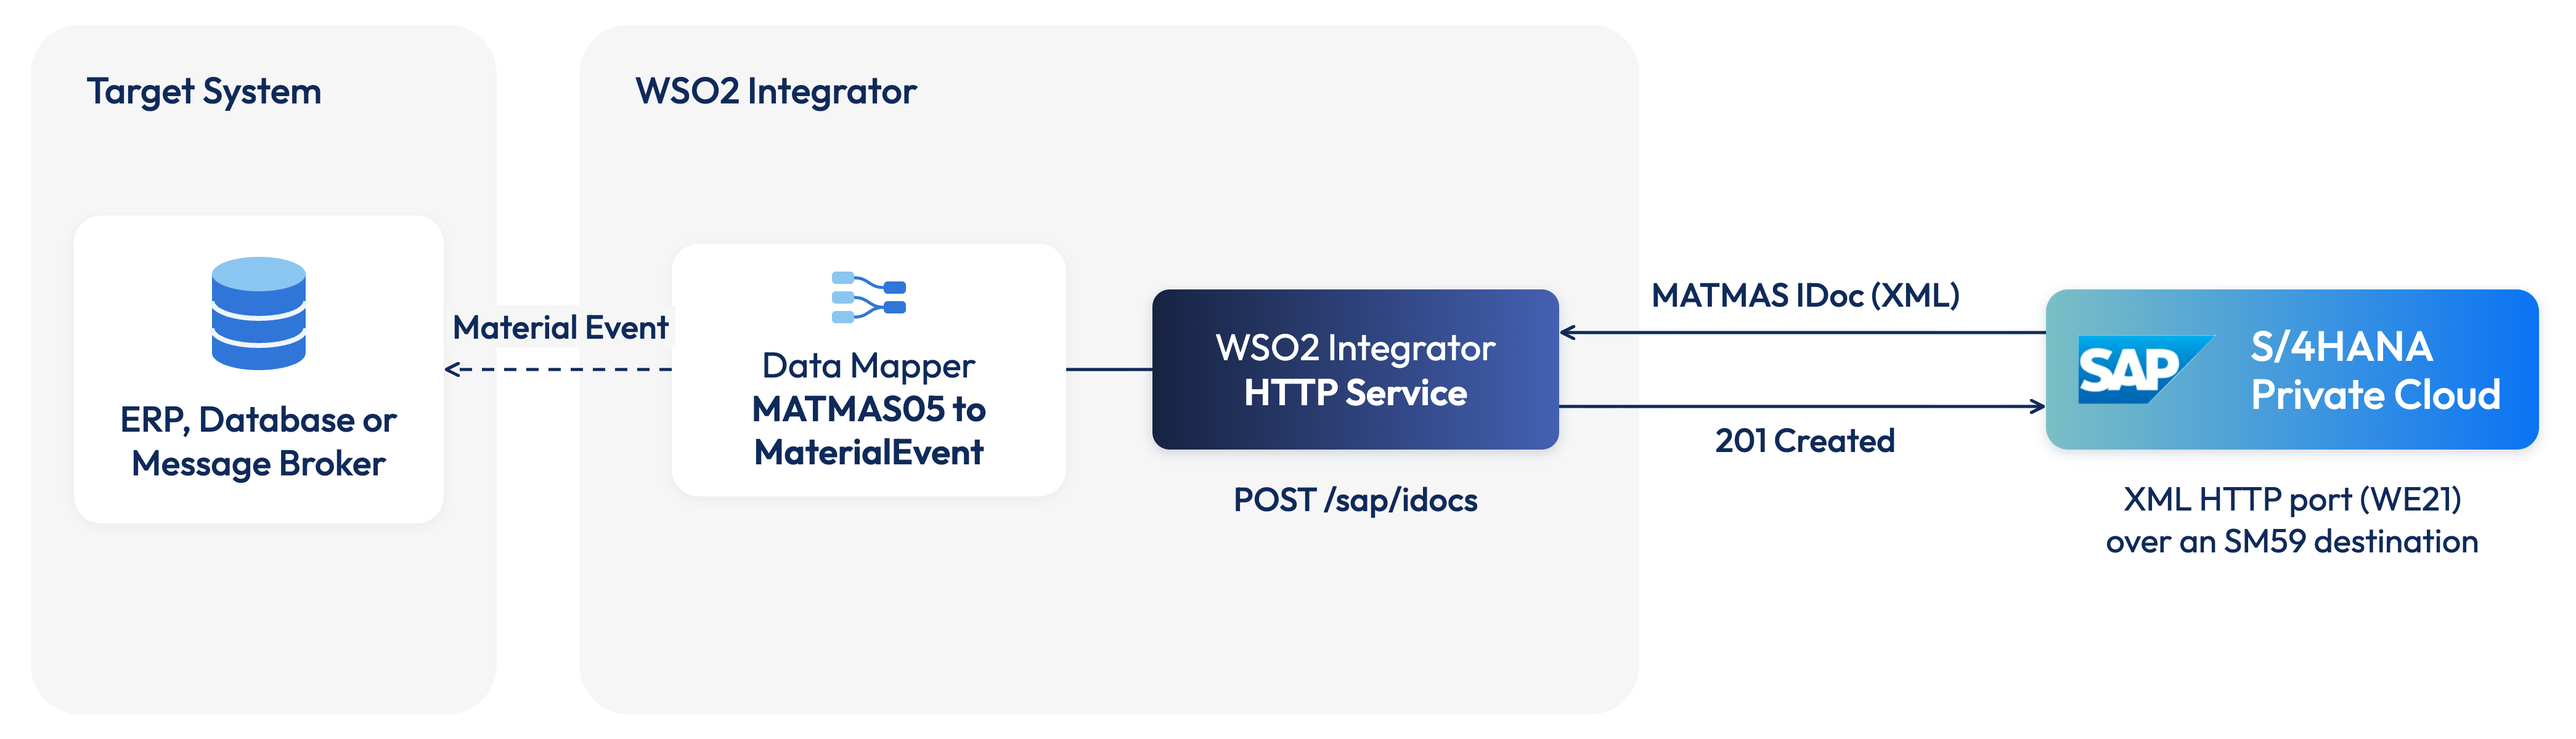
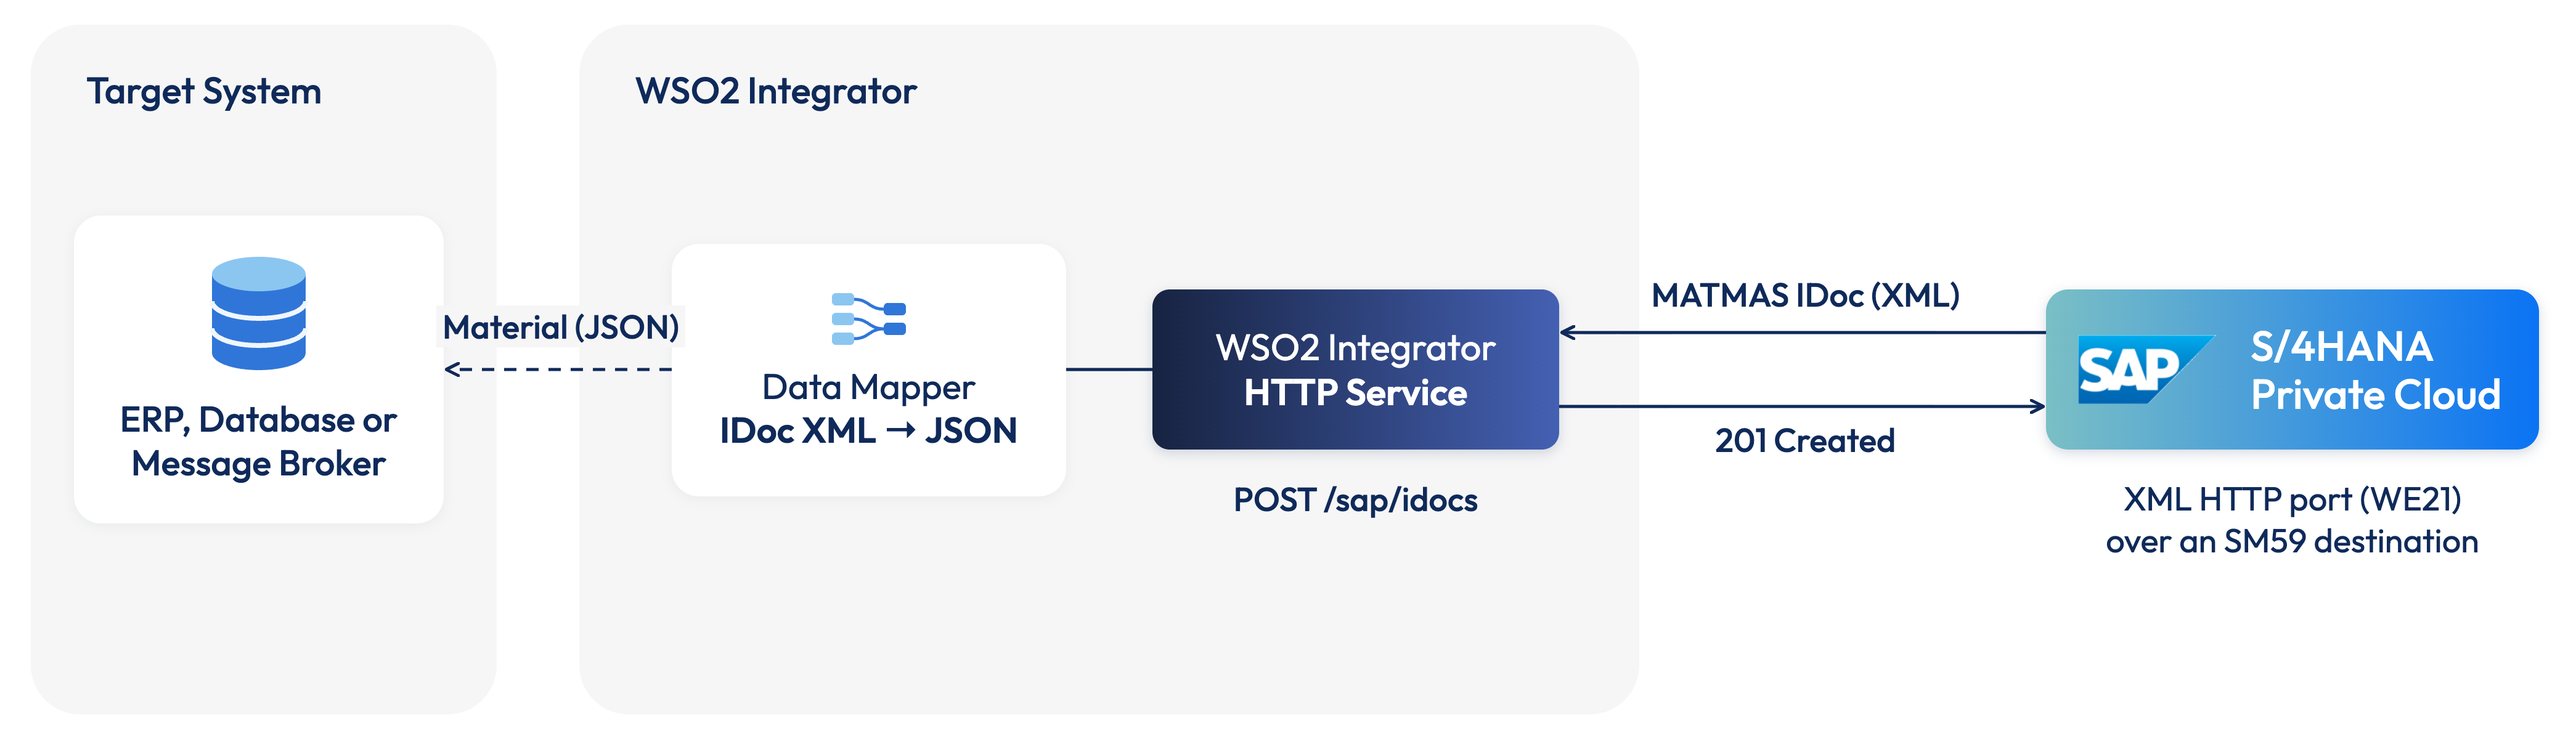
Show the Data Mapper as IDoc XML to JSON in the architecture diagram

Changed region(s): [[0.2799, 0.37, 0.4043, 0.6475], [0.1555, 0.4008, 0.2799, 0.4625]]

diff --git a/en/docs/guides/how-to-guides/sap-idoc-over-http.md b/en/docs/guides/how-to-guides/sap-idoc-over-http.md
@@ -24,7 +24,7 @@ SAP usually sends IDocs to an external system over transactional RFC, which need
 ## How it works
 
 <ThemedImage
-    alt="Architecture diagram: SAP S/4HANA Private Cloud sends a MATMAS IDoc as XML through an XML HTTP port and an SM59 destination to the WSO2 Integrator HTTP service POST /sap/idocs, which returns 201 Created; the service maps the MATMAS05 IDoc to a MaterialEvent with the Data Mapper, ready to send on to a target system such as an ERP, database or message broker"
+    alt="Architecture diagram: SAP S/4HANA Private Cloud sends a MATMAS IDoc as XML through an XML HTTP port and an SM59 destination to the WSO2 Integrator HTTP service POST /sap/idocs, which returns 201 Created; the Data Mapper turns the IDoc XML into JSON, ready to send on to a target system such as an ERP, database or message broker"
     style={{border: 'none', boxShadow: 'none', borderRadius: 0}}
     sources={{
         light: useBaseUrl('/img/guides/usecases/sap-idoc-over-http/architecture.png'),

diff --git a/en/versioned_docs/version-5.1.0/guides/how-to-guides/sap-idoc-over-http.md b/en/versioned_docs/version-5.1.0/guides/how-to-guides/sap-idoc-over-http.md
@@ -24,7 +24,7 @@ SAP usually sends IDocs to an external system over transactional RFC, which need
 ## How it works
 
 <ThemedImage
-    alt="Architecture diagram: SAP S/4HANA Private Cloud sends a MATMAS IDoc as XML through an XML HTTP port and an SM59 destination to the WSO2 Integrator HTTP service POST /sap/idocs, which returns 201 Created; the service maps the MATMAS05 IDoc to a MaterialEvent with the Data Mapper, ready to send on to a target system such as an ERP, database or message broker"
+    alt="Architecture diagram: SAP S/4HANA Private Cloud sends a MATMAS IDoc as XML through an XML HTTP port and an SM59 destination to the WSO2 Integrator HTTP service POST /sap/idocs, which returns 201 Created; the Data Mapper turns the IDoc XML into JSON, ready to send on to a target system such as an ERP, database or message broker"
     style={{border: 'none', boxShadow: 'none', borderRadius: 0}}
     sources={{
         light: useBaseUrl('/img/guides/usecases/sap-idoc-over-http/architecture.png'),
